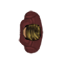
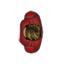
Progress bar

Changed region(s): [[0.2812, 0.5, 0.6562, 0.8125], [0.3125, 0.1875, 0.625, 0.4688]]

diff --git a/src/isr/ProgressBar.java b/src/isr/ProgressBar.java
@@ -1,0 +1,43 @@
+package isr;
+
+import org.newdawn.slick.GameContainer;
+import org.newdawn.slick.Graphics;
+import org.newdawn.slick.Image;
+import org.newdawn.slick.SlickException;
+
+import backend.ui.BasicWidget;
+import backend.ui.Widget;
+
+public class ProgressBar extends BasicWidget {
+	
+	Image imgBar;
+	Image imgShip;
+	int xShip;
+	
+	public ProgressBar(Widget parent, int x, int y, int width, int height) {
+		super(parent, x, y, width, height);
+		
+		xShip = 0;
+		
+		try {
+			imgBar = new Image("assets/progress_bar.png");
+			imgShip = new Image("assets/mini_ship.png");
+		} catch (SlickException e) {
+			// TODO Auto-generated catch block
+			e.printStackTrace();
+		}
+	}
+	
+	public void incrementProgression(int deltaX)
+	{
+		xShip += deltaX;
+	}
+	
+	@Override
+	public void render(GameContainer gc, Graphics gfx) {
+		imgBar.draw(getX(), getY());
+		imgShip.draw(getX()+xShip, getY()-18);
+
+	}
+
+}

diff --git a/src/isr/GamePlay.java b/src/isr/GamePlay.java
@@ -52,6 +52,10 @@ public class GamePlay extends UIBasicGameState
 			}
 		});
 		ui.add(btn);
+		
+		//Progress bar
+		ProgressBar bar = new ProgressBar(ui, 100, 25, 600, 30);
+		ui.add(bar);
 
 	}
 
